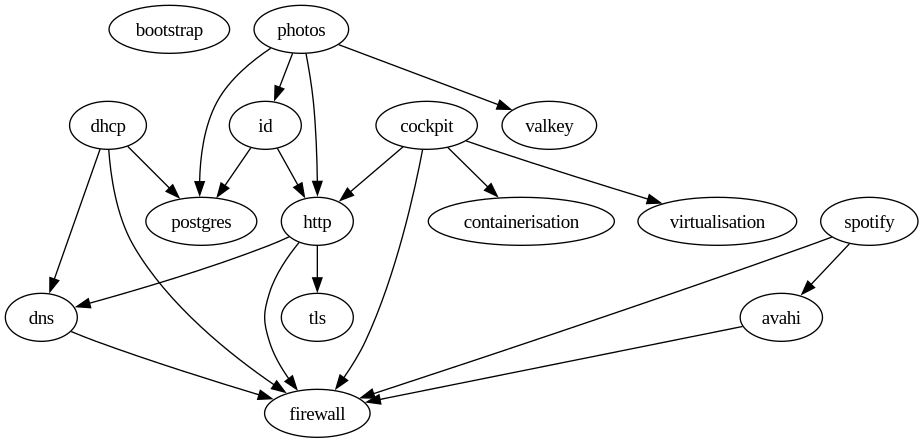
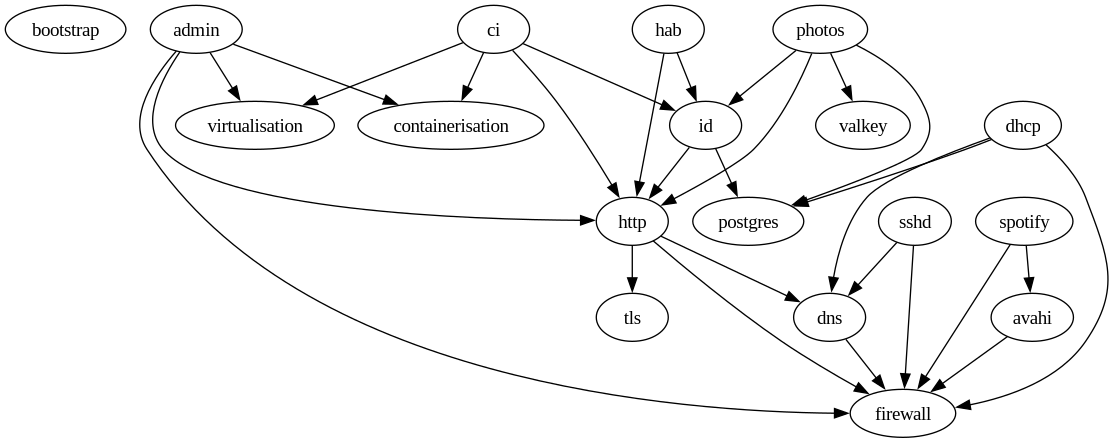
Update playbook for new role names
Update dep graph and readme

diff --git a/README.md b/README.md
@@ -1,8 +1,10 @@
 # Home Lab Server
 
+Ansible scripts to deploy the homelab services at matbooth.co.uk.
+
 ## Pre-requisites
 
-Clevis is used for auto decryption of LUKS encrypted volumes, which requires a Tang server to be running elsewhere on the network. Installation process for that is as follows:
+Clevis is used for automatic boot-time decryption of LUKS encrypted volumes, which requires a Tang server to be running elsewhere on the local network. Installation process for that is as follows:
 
 ```
 # dnf install tang
@@ -24,7 +26,7 @@ $ ./run.sh        # Staging VM
 $ PROD=1 ./run.sh # Real hardware
 ```
 
-If a machine has not yet been provisioned, the script will provision a VM or boot USB stick to be used on real hardware.
+If a machine has not yet been provisioned, the script will provision a VM (staging) or boot USB stick to be used on real hardware (production).
 
 Once provisioned, a bootstrap playbook will be executed to configure fundamentals like network adapters, user accounts, public key authentication, LUKS decryption, etc.
 
@@ -37,8 +39,23 @@ $ PROD=1 ./run.sh # Real hardware
 
 Subsequent runs will execute the main playbooks to install and configure all the services. Provisioning and bootstrapping will be skipped.
 
-## Role Dependencies
+## Roles
 
-A role dependency graph to help me remember how it all hangs together:
+Applications and services accessible over the public internet:
+
+* id - Keycloak instance for user management and SSO service for other apps
+* photos - Immich for photo and video management
+* ci - Jenkins for on-prem continuous integration
+* sshd - SSH for restricted user shell accounts
+
+Applications and services accessible over the local network only:
+
+* admin - Cockpit for system administration and monitoring
+* hab - OpenHAB for home automation
+* spotify - Spotifyd for local users of Spotify to play music through the big stereo
+
+### Dependencies
+
+This dependency graph show roughly how the roles all hang together:
 
 ![Role Dependency Graph](depgraph.png)
